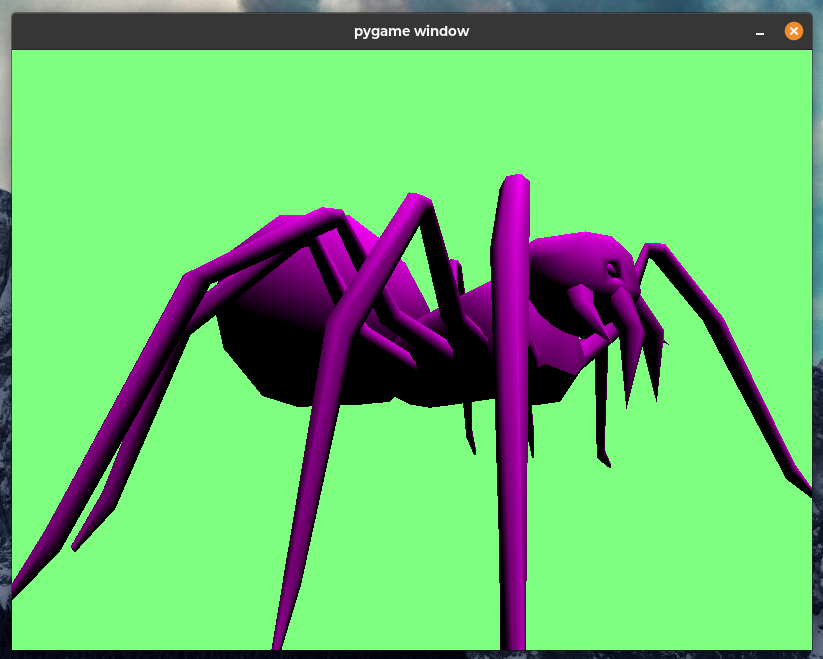
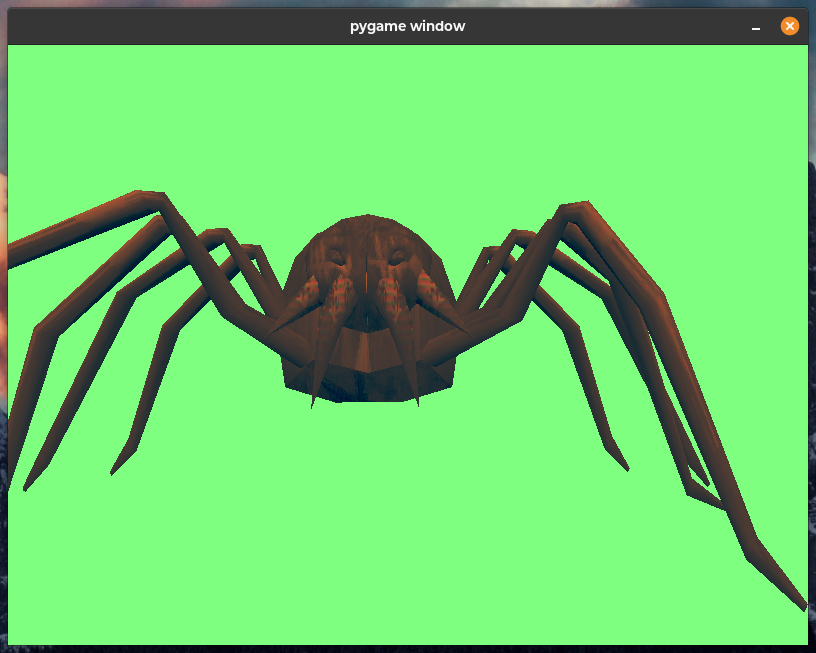
texture added

diff --git a/demo.py b/demo.py
@@ -14,14 +14,17 @@ vertex_shader = """
 #version 460
 layout (location = 0) in vec3 position;
 layout (location = 1) in vec3 normal;
+layout (location = 2) in vec2 texcoords;
 
 uniform mat4 theMatrix;
 uniform vec3 light;
 
 out float intensity;
+out vec2 vertexTexcoords;
 
 void main()
 {
+  vertexTexcoords = texcoords;
   intensity = dot(normal, normalize(light));
   gl_Position = theMatrix * vec4(position.x, position.y, position.z, 1.0);
 }
@@ -32,10 +35,16 @@ fragment_shader = """
 layout(location = 0) out vec4 fragColor;
 
 in float intensity;
+in vec2 vertexTexcoords;
+
+uniform sampler2D tex;
+uniform vec4 diffuse;
+uniform vec4 ambient;
 
 void main()
 {
-   fragColor = vec4(1.0f, 0.0f, 1.0f, 1.0f) * intensity;
+
+   fragColor = ambient + diffuse * texture(tex, vertexTexcoords) * intensity;
 }
 """
 
@@ -44,8 +53,33 @@ shader = compileProgram(
     compileShader(fragment_shader, GL_FRAGMENT_SHADER)
 )
 
-
+# Load model
 scene = pyassimp.load('./models/spider.obj')
+# Load texture
+texture_surface = pygame.image.load('./models/SpiderTex.jpg')
+texture_data = pygame.image.tostring(texture_surface, 'RGB', 1)
+
+
+width = texture_surface.get_width()
+height = texture_surface.get_height()
+
+texture = glGenTextures(1)
+glBindTexture(GL_TEXTURE_2D, texture)
+glTexImage2D(
+  GL_TEXTURE_2D,
+  0, # Level details
+  GL_RGB,
+  width,
+  height,
+  0, # border always zero
+  GL_RGB,
+  GL_UNSIGNED_BYTE,
+  texture_data
+
+)
+
+glGenerateMipmap(GL_TEXTURE_2D)
+
 
 
 
@@ -57,6 +91,8 @@ def glize(node):
       numpy.array(mesh.normals, dtype=numpy.float32),
       numpy.array(mesh.texturecoords[0], dtype=numpy.float32),
     ])
+
+    # print(mesh.materialindex)
 
     index_data = numpy.hstack(
       numpy.array(mesh.faces, dtype=numpy.int32),
@@ -77,12 +113,20 @@ def glize(node):
     glBindBuffer(GL_ELEMENT_ARRAY_BUFFER, element_buffer_object)
     glBufferData(GL_ELEMENT_ARRAY_BUFFER, index_data.nbytes, index_data, GL_STATIC_DRAW)
 
-
     glUniform3f(
       glGetUniformLocation(shader, "light"),
       -100, 300, 0
     )
 
+    glUniform4f(
+      glGetUniformLocation(shader, "diffuse"),
+      0.7, 0.2, 0, 1
+    )
+
+    glUniform4f(
+      glGetUniformLocation(shader, "ambient"),
+      0.2, 0.2, 0.2, 1
+    )
 
     glDrawElements(GL_TRIANGLES, len(index_data), GL_UNSIGNED_INT, None)
 
